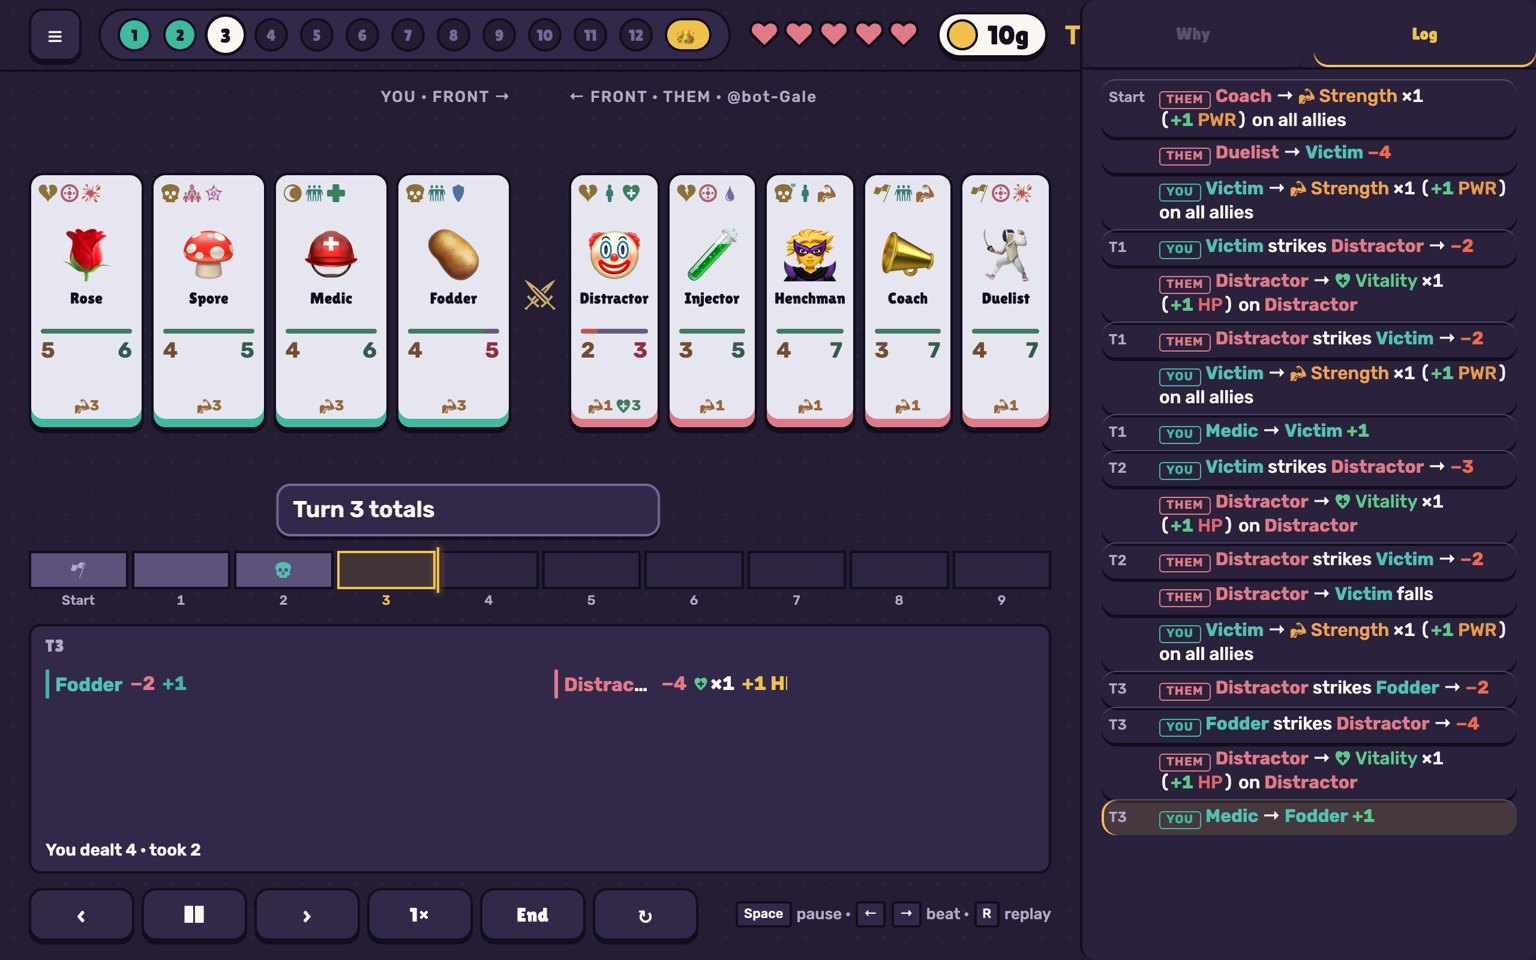
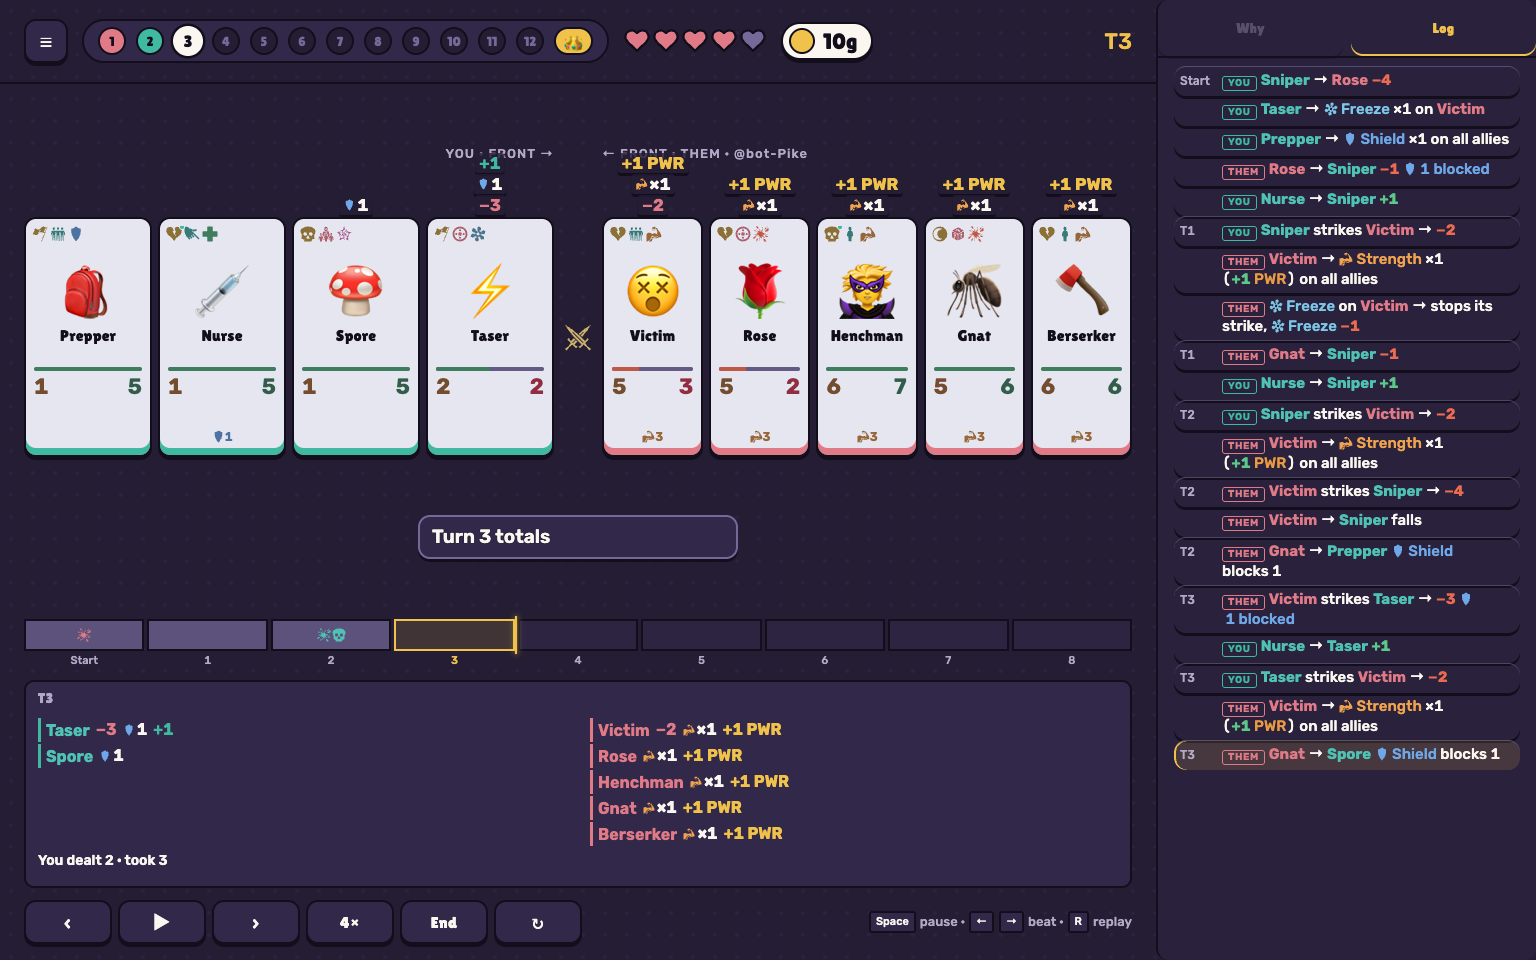
Ledger fits 360×640 (2 whole rows); strip drops the number's word before it is cut; shots re-taken

diff --git a/mobile/screens/battle.ts b/mobile/screens/battle.ts
@@ -1437,6 +1437,7 @@ export function battleScreen(a: { battle: BattleRecord; content: MvpContent; you
     const chained = !sum && !!beat && isChain(beat);
     caption.replaceChildren(h("span", { class: "bv-strip-line bv-cap" }, ...(sum ? [h("span", { class: "bv-strip-text", "data-testid": "caption-turn-end" }, sum.turn >= 1 ? tr("battle.totals.turn", { n: sum.turn }) : tr("battle.totals.start"))] : stripKids(step)), ...(chained ? [chainDots(beat!.waves.length, wave)] : [])));
     caption.setAttribute("aria-label", sum ? tr("battle.totals.turn", { n: sum.turn }) : plainCaption(step));
+    fitStrip();
     // The ledger (below the board): the turn, Skip chain while a chain plays, a row per unit changed, a chain's summary or the turn's bottom line.
     ledgerHead.replaceChildren(h("span", { class: "bv-ledger-turn", "data-testid": "ledger-turn" }, turnLabel(shownTurn)), ledgerMore, ...(inChain() ? [skipBtn] : []));
     const ledgerLive = v.waves.some((w) => w.age !== null) && !reduced();
@@ -1879,11 +1880,28 @@ export function battleScreen(a: { battle: BattleRecord; content: MvpContent; you
       stripNum(c),
     ];
   }
-  /** The number in the strip: a short one ("−4") keeps its width, a long label ("Strength ×1") may give way, after the target. */
+  /** The number in the strip: "Curse ×1" is a word and its count. A line too full to hold it drops the word ("×1", "no damage" → "0"): fitStrip. A short one ("−4") keeps its width. */
   function stripNum(c: Change): HTMLElement {
-    const el = h("b", { class: `bv-num ${c.kind}`, "data-testid": "strip-num" }, c.label);
-    if ([...c.label].length <= 8) { el.style.flexShrink = "0"; el.style.minWidth = "0"; }
+    const m = /^([^\d×+−-]+?)\s*([×+−-]?\d.*)$/.exec(c.label);
+    const t = /^([×+−-]?\d+)\s+(\p{L}{6,})$/u.exec(c.label); // "1 blocked": the count, then a long word
+    const el = m
+      ? h("b", { class: `bv-num ${c.kind}`, "data-testid": "strip-num" }, h("span", { class: "bv-w" }, `${m[1]} `), m[2]!)
+      : t
+        ? h("b", { class: `bv-num ${c.kind}`, "data-testid": "strip-num" }, `${t[1]} `, h("span", { class: "bv-w" }, t[2]!))
+        : h("b", { class: `bv-num ${c.kind}`, "data-testid": "strip-num" }, c.label);
+    if (!m && c.kind === "damage" && !/\d/.test(c.label)) { el.dataset.short = "0"; el.classList.add("wordy"); }
+    if (m) el.dataset.short = m[2]!;
+    if (t) el.dataset.short = t[1]!;
+    el.style.flexShrink = "0";
+    el.style.minWidth = "0";
     return el;
+  }
+  /** Drops the strip's number to its short form when the line runs out of room (the number is never cut or covered, the word goes first). */
+  function fitStrip(): void {
+    const line = caption.querySelector<HTMLElement>(".bv-strip-line");
+    if (!line) return;
+    line.classList.remove("tight");
+    if (line.scrollWidth > line.clientWidth + 1) line.classList.add("tight");
   }
   /** A name in the strip. A short name keeps its whole width; a long one gives way with an ellipsis, the target first (CSS) and the actor last, never under 6 characters. */
   function stripName(id: string, role: "actor" | "target"): HTMLElement {
@@ -2032,6 +2050,7 @@ export function battleScreen(a: { battle: BattleRecord; content: MvpContent; you
    * the card acting, so the event reads where it happens; a turn's totals or
    * a beat with nobody acting keep it centred. It slides, never leaves the board. */
   function placeCaption(): void {
+    fitStrip();
     delete caption.dataset.at;
     const card = isDesktop() && !finished ? [mine, enemy].map((r) => r.querySelector<HTMLElement>(".bv-card.acting")).find((x) => x) : undefined;
     const board = caption.parentElement?.getBoundingClientRect();

diff --git a/mobile/style.css b/mobile/style.css
@@ -781,6 +781,10 @@ button.bv-caption.tappable::after { content: "ⓘ"; flex: none; margin-left: 4px
 .bv-strip-line > .bv-num { flex: 0 2 auto; min-width: 4.5em; overflow: hidden; text-overflow: ellipsis; }
 .bv-strip-line .bv-eff { display: inline-flex; align-items: center; }
 .bv-strip-line .bv-arrow { font-size: 13px; }
+/* A line too full for the number's word shows its short form: "Curse ×1" → "×1", "no damage" → "0" (battle.ts fitStrip). */
+.bv-strip-line.tight > .bv-num[data-short] > .bv-w { display: none; }
+.bv-strip-line.tight > .bv-num.wordy { font-size: 0; }
+.bv-strip-line.tight > .bv-num.wordy::after { content: attr(data-short); font-size: 1.1rem; }
 .bv-num { font-family: var(--font-num); font-size: 1.1em; }
 /* The strip tells each kind in the colour its effect has on the board (ui/effects.ts LANGUAGE). */
 .bv-num.damage, .bv-eff.damage { color: var(--k-dmg); }
@@ -1354,6 +1358,13 @@ button.chip.quiet.on { background: none; color: var(--text); border-color: var(-
   #app[data-screen="battle"] button.bv-caption.ended { height: auto; }
 }
 
+/* A phone of 640 px (360×640): the ledger needs two whole rows (mission 1007, #1010), so the gaps between the screen's boxes, the caption and the ledger's head give theirs up. */
+@media (max-width: 1023.98px) and (min-height: 521px) and (max-height: 700px) {
+  #app[data-screen="battle"] .bv-screen { gap: 4px; }
+  #app[data-screen="battle"] button.bv-caption { height: 38px; padding-top: 2px; padding-bottom: 2px; }
+  #app[data-screen="battle"] .bv-ledger-head { height: 26px; }
+  #app[data-screen="battle"] .bv-ledger button.bv-skip { min-height: 24px; padding: 0 10px; font-size: 13px; }
+}
 /* R2-17 batch E: a short phone screen (a phone on its side, 640×360). The
  * battle still fits whole, the control bar on screen: tighter gaps, no side
  * labels (the caption's YOU / THEM tags say whose), a shorter caption and
